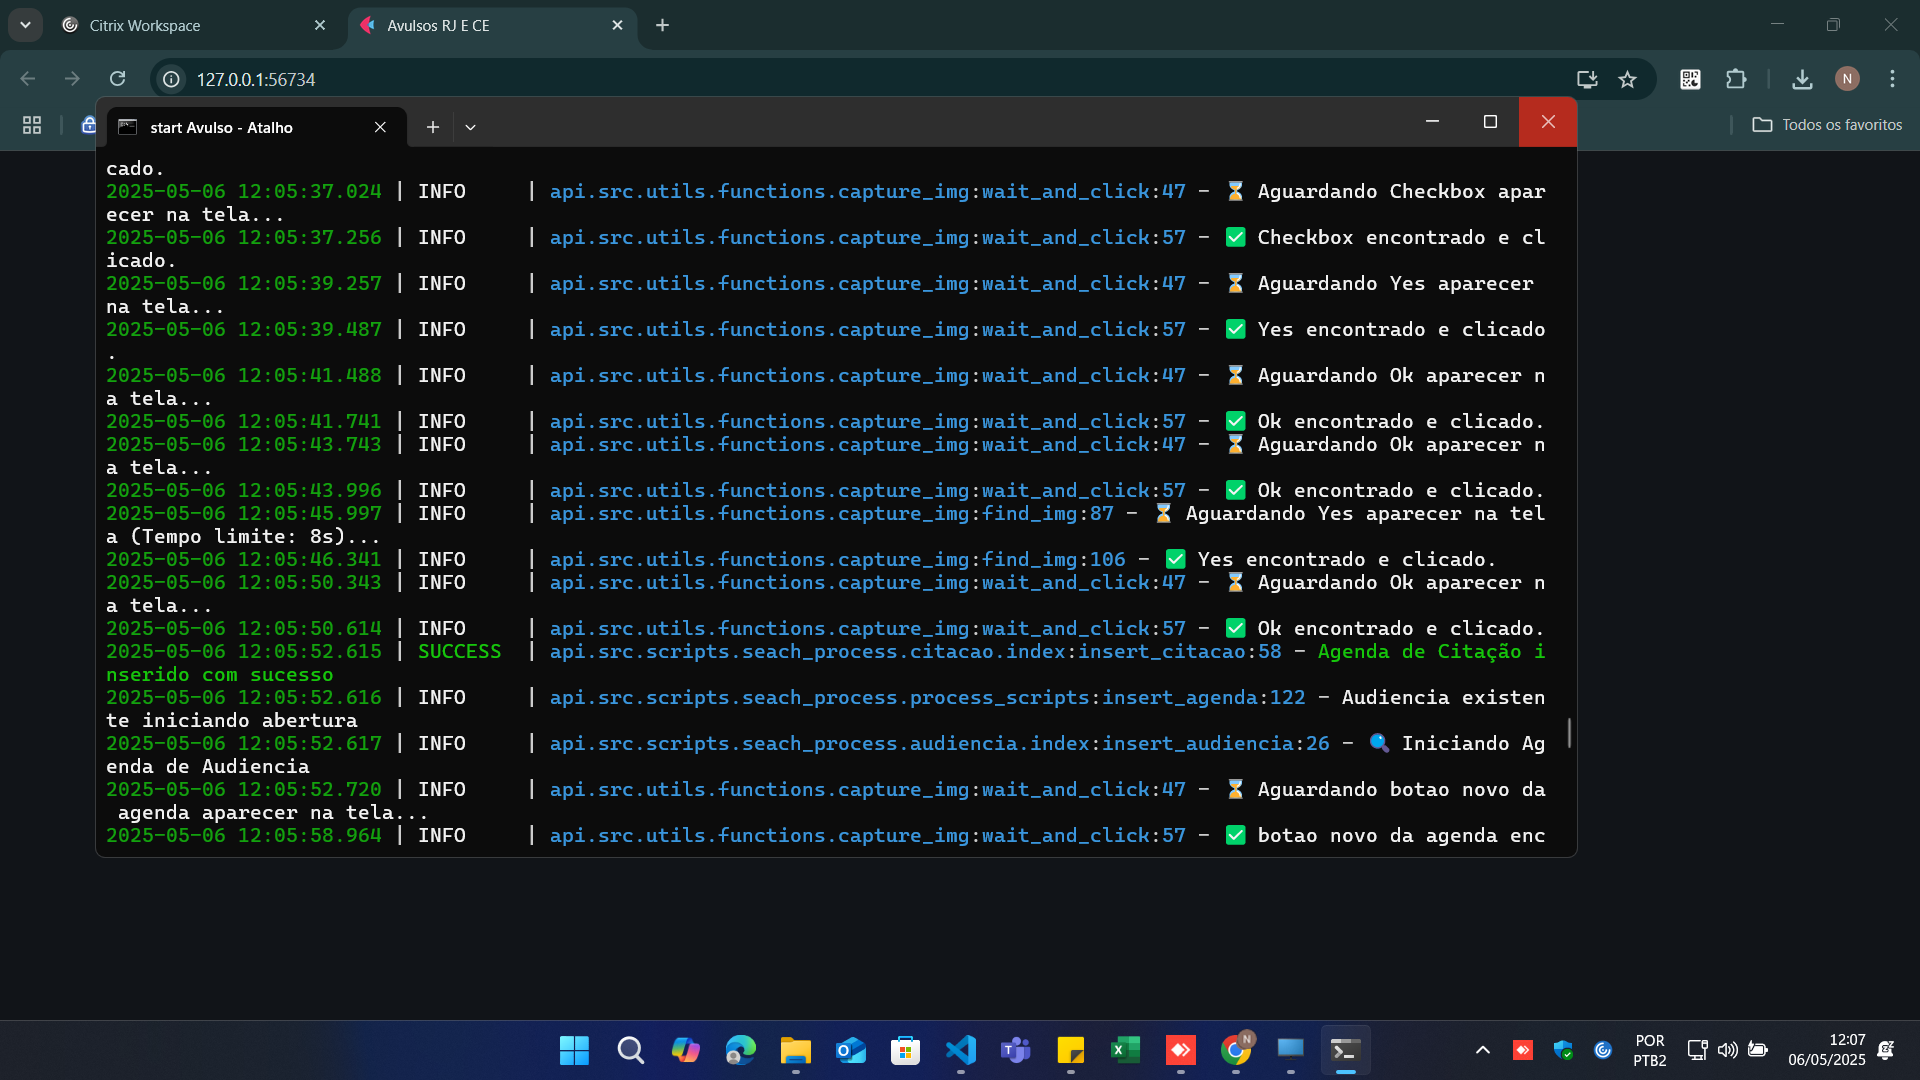
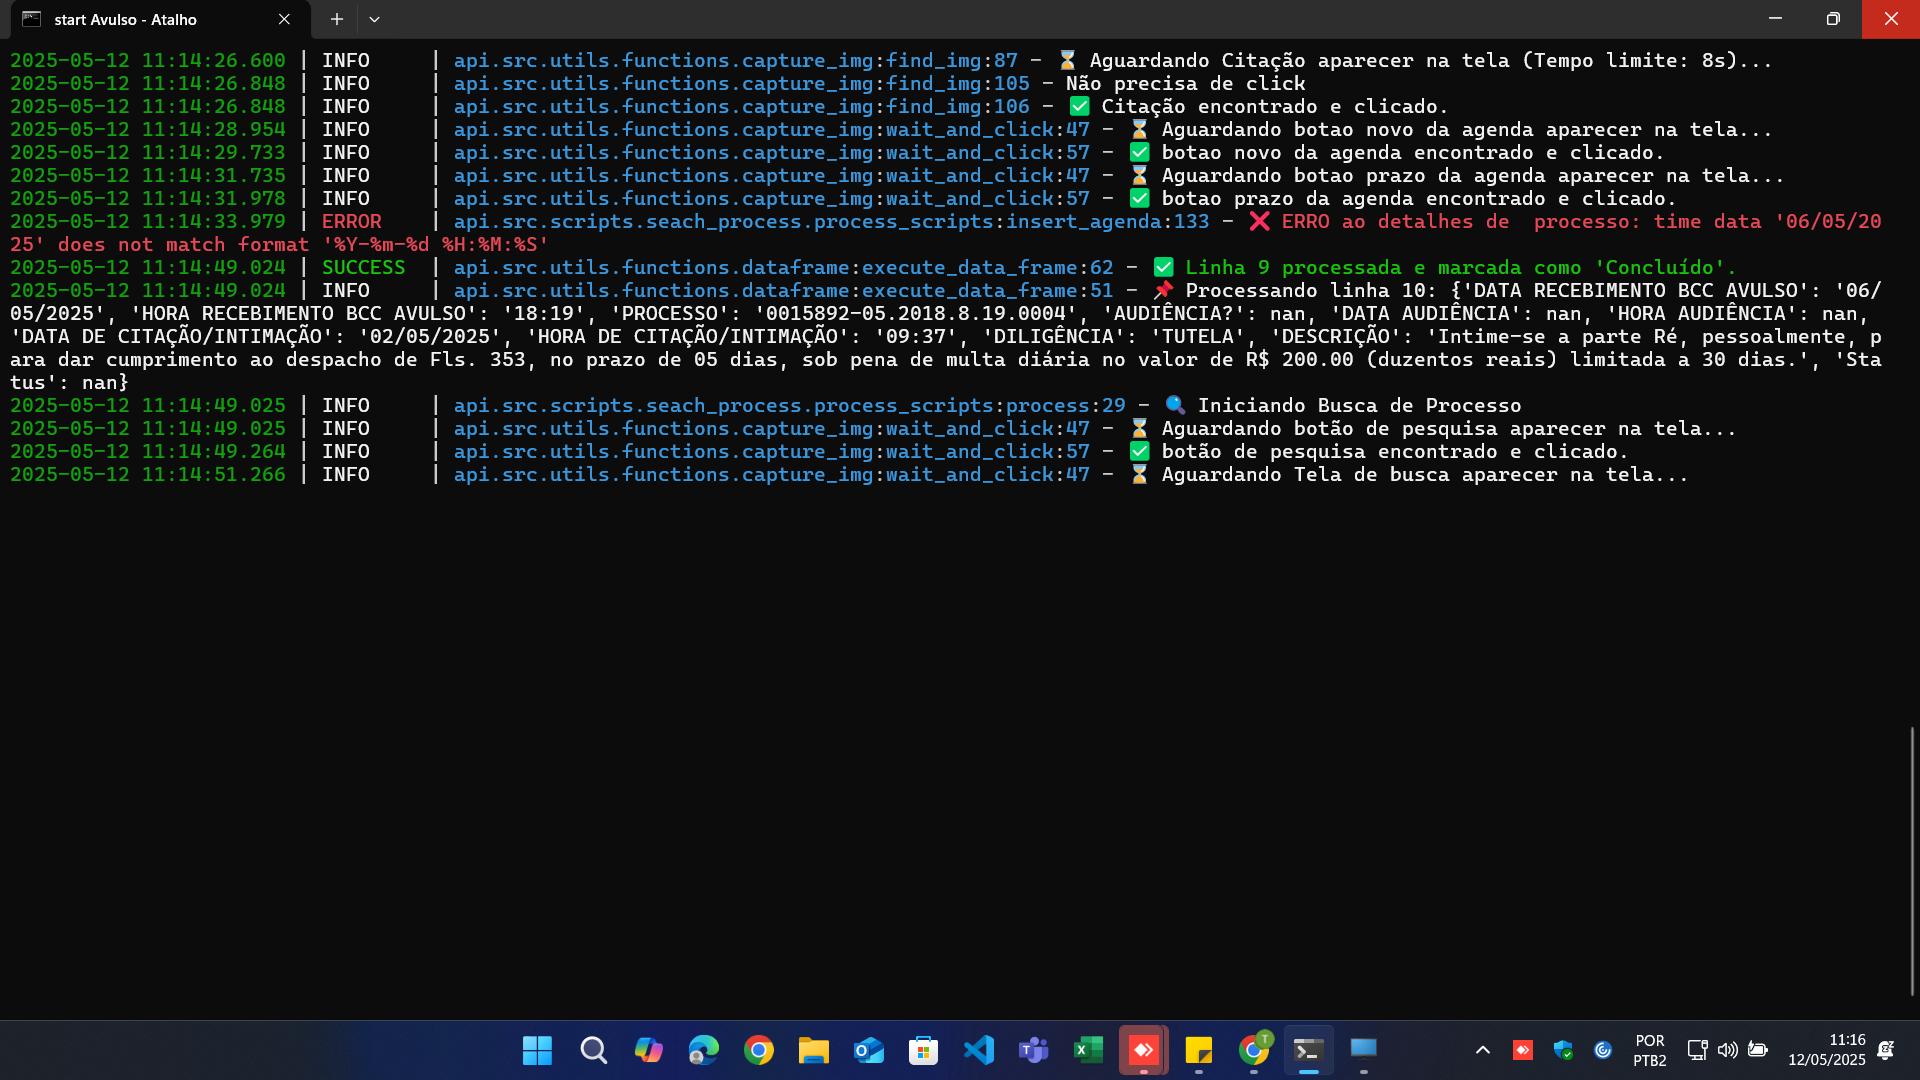
feat: ajusted format_date

diff --git a/api/src/utils/functions/format_date.py b/api/src/utils/functions/format_date.py
@@ -1,13 +1,38 @@
 from datetime import datetime, time
 import pandas as pd
 
-
 def format_date(raw_date) -> str:
-    """Any -> str -> datetime -> format -> str"""
-    try:
-        return str(datetime.strptime(str(raw_date), '%Y-%m-%d %H:%M:%S').strftime('%d/%m/%Y'))
-    except ValueError as e:
-        raise e
+    """
+    Recebe qualquer tipo de dado vindo do pandas/openpyxl e retorna apenas a data no formato DD/MM/AAAA.
+    """
+    if pd.isna(raw_date):
+        return ''
+    
+    # Caso seja datetime completo
+    if isinstance(raw_date, datetime):
+        return raw_date.strftime('%d/%m/%Y')
+    
+    # Caso seja string, tenta parsear várias possibilidades
+    if isinstance(raw_date, str):
+        for fmt in ('%Y-%m-%d %H:%M:%S', '%Y-%m-%d', '%d/%m/%Y %H:%M:%S', '%d/%m/%Y'):
+            try:
+                dt = datetime.strptime(raw_date, fmt)
+                return dt.strftime('%d/%m/%Y')
+            except ValueError:
+                continue
+        # Se nenhuma bater
+        return ''
+    
+    # Caso seja número serial (float ou int) vindo do Excel
+    if isinstance(raw_date, (float, int)):
+        try:
+            excel_date = pd.to_datetime(raw_date, unit='d', origin='1899-12-30')
+            return excel_date.strftime('%d/%m/%Y')
+        except Exception:
+            return ''
+    
+    # Se não conseguiu interpretar
+    return ''
     
 def format_hora(raw_date) -> str:
     """
